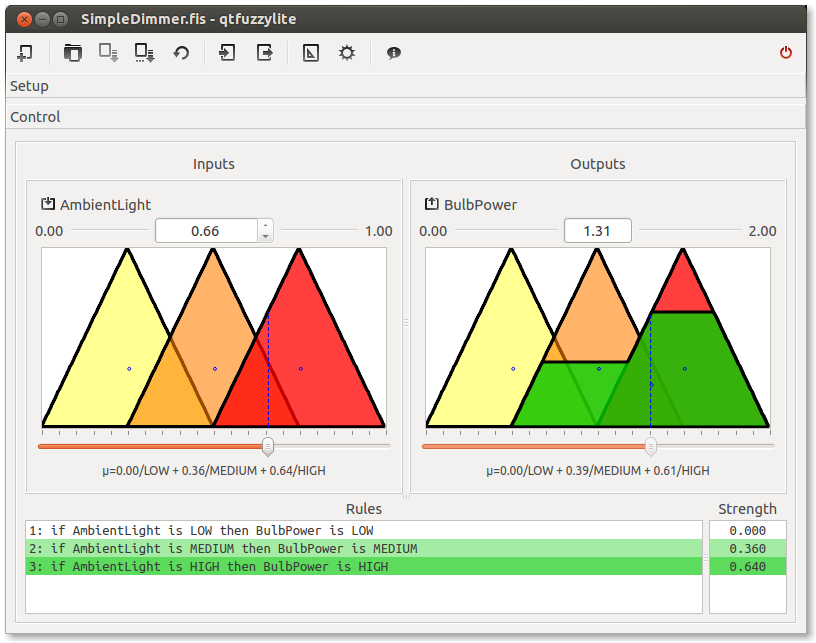
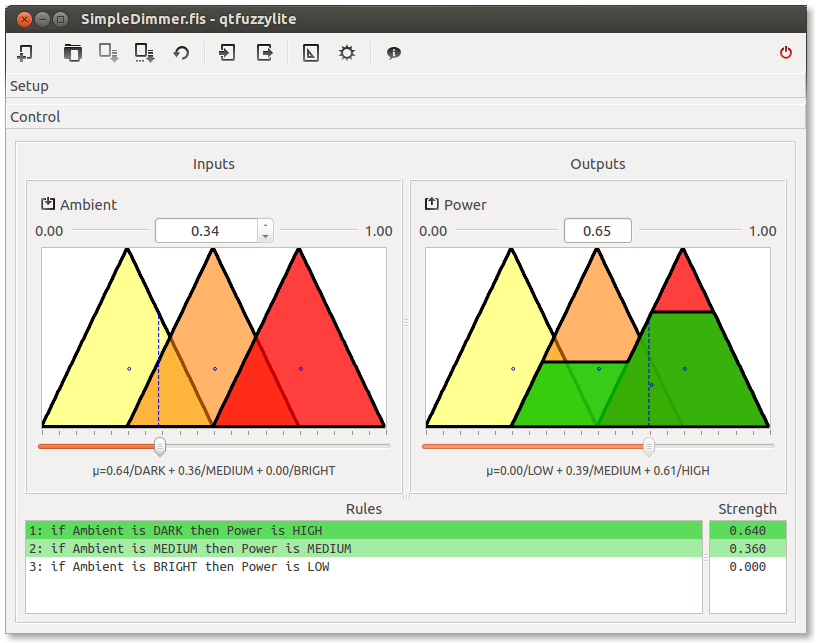
qt: fixed simpleDimmer example. Fixed figures

diff --git a/qtfuzzylite/src/Window.cpp b/qtfuzzylite/src/Window.cpp
@@ -658,9 +658,8 @@ namespace fl {
             Engine* engine = Model::Default()->engine();
             for (int i = 0; i < ui->lvw_inputs->count(); ++i) {
                 if (ui->lvw_inputs->item(i)->isSelected()) {
-                    message << "<" << engine->getInputVariable(i)->getName() << ">: "
-                            << engine->getInputVariable(i)->toString();
-                    if (i < ui->lvw_inputs->selectedItems().size() - 1) message << "\n\n";
+                    message << "- " << engine->getInputVariable(i)->toString();
+                    if (i + 1 < ui->lvw_inputs->selectedItems().size()) message << "\n\n";
                 }
             }
 
@@ -695,9 +694,8 @@ namespace fl {
                 message << "Do you want to edit the following input variables?\n\n";
                 for (int i = 0; i < ui->lvw_inputs->count(); ++i) {
                     if (ui->lvw_inputs->item(i)->isSelected()) {
-                        message << "<" << engine->getInputVariable(i)->getName() << ">: "
-                                << engine->getInputVariable(i)->toString();
-                        if (i < ui->lvw_inputs->selectedItems().size() - 1) message << "\n\n";
+                        message << "- " << engine->getInputVariable(i)->toString();
+                        if (i + 1 < ui->lvw_inputs->selectedItems().size()) message << "\n\n";
                     }
                 }
                 QMessageBox::StandardButton clicked = QMessageBox::information(this,
@@ -766,9 +764,8 @@ namespace fl {
             Engine* engine = Model::Default()->engine();
             for (int i = 0; i < ui->lvw_outputs->count(); ++i) {
                 if (ui->lvw_outputs->item(i)->isSelected()) {
-                    message << "<" << engine->getOutputVariable(i)->getName() << ">: "
-                            << engine->getOutputVariable(i)->toString();
-                    if (i < ui->lvw_outputs->selectedItems().size() - 1) message << "\n\n";
+                    message << "- " << engine->getOutputVariable(i)->toString();
+                    if (i+1 < ui->lvw_outputs->selectedItems().size()) message << "\n\n";
                 }
             }
 
@@ -801,9 +798,8 @@ namespace fl {
                 message << "Do you want to edit the following output variables?\n\n";
                 for (int i = 0; i < ui->lvw_outputs->count(); ++i) {
                     if (ui->lvw_outputs->item(i)->isSelected()) {
-                        message << "<" << engine->getOutputVariable(i)->getName() << ">: "
-                                << engine->getOutputVariable(i)->toString();
-                        if (i < ui->lvw_outputs->selectedItems().size() - 1) message << "\n\n";
+                        message << "- " << engine->getOutputVariable(i)->toString();
+                        if (i+1 < ui->lvw_outputs->selectedItems().size()) message << "\n\n";
                     }
                 }
                 QMessageBox::StandardButton clicked = QMessageBox::information(this,
@@ -1141,7 +1137,7 @@ namespace fl {
                 QString name = QFileInfo(_currentFile).fileName();
                 if (name.isEmpty()) name = "untitled";
                 QMessageBox::StandardButton clicked =
-                        QMessageBox::critical(this, "New engine",
+                        QMessageBox::warning(this, "New engine",
                         "Any unsaved changes to "
                         "\"" + name + "\""
                         " will be lost.<br><br>"
@@ -1701,12 +1697,11 @@ namespace fl {
             return x.toHtmlEscaped();
 #endif
         }
-        
 
         void Window::main(int argc, char** argv) {
             QPixmap pixmap(":/qtfuzzylite.png");
             QSplashScreen splash(pixmap);
-			splash.setWindowFlags(splash.windowFlags() |  Qt::WindowStaysOnTopHint);
+            splash.setWindowFlags(splash.windowFlags() | Qt::WindowStaysOnTopHint);
             splash.setEnabled(false);
             splash.show();
 
@@ -1717,12 +1712,12 @@ namespace fl {
             sleep(1);
 #elif defined FL_WINDOWS
             Sleep(1000);
-			FL_LOG("Slept 1");
+            FL_LOG("Slept 1");
 #endif
             w->show();
             splash.finish(w);
             w->onMenuAbout();
-            
+
             //            w->showMinimized();
             //            splash.finish(w);
             //            w->onMenuAbout();

diff --git a/examples/cpp/mamdani/SimpleDimmer.cpp b/examples/cpp/mamdani/SimpleDimmer.cpp
@@ -11,26 +11,26 @@ engine->addHedge(new fl::Somewhat);
 engine->addHedge(new fl::Very);
 
 fl::InputVariable* inputVariable1 = new fl::InputVariable;
-inputVariable1->setName("AmbientLight");
+inputVariable1->setName("Ambient");
 inputVariable1->setRange(0.000, 1.000);
 
-inputVariable1->addTerm(new fl::Triangle("LOW", 0.000, 0.250, 0.500));
+inputVariable1->addTerm(new fl::Triangle("DARK", 0.000, 0.250, 0.500));
 inputVariable1->addTerm(new fl::Triangle("MEDIUM", 0.250, 0.500, 0.750));
-inputVariable1->addTerm(new fl::Triangle("HIGH", 0.500, 0.750, 1.000));
+inputVariable1->addTerm(new fl::Triangle("BRIGHT", 0.500, 0.750, 1.000));
 engine->addInputVariable(inputVariable1);
 
 fl::OutputVariable* outputVariable1 = new fl::OutputVariable;
-outputVariable1->setName("BulbPower");
-outputVariable1->setRange(0.000, 2.000);
+outputVariable1->setName("Power");
+outputVariable1->setRange(0.000, 1.000);
 outputVariable1->setLockOutputRange(false);
 outputVariable1->setDefaultValue(fl::nan);
 outputVariable1->setLockValidOutput(false);
-outputVariable1->setDefuzzifier(new fl::Centroid(500));
+outputVariable1->setDefuzzifier(new fl::Centroid(200));
 outputVariable1->output()->setAccumulation(new fl::Maximum);
 
-outputVariable1->addTerm(new fl::Triangle("LOW", 0.000, 0.500, 1.000));
-outputVariable1->addTerm(new fl::Triangle("MEDIUM", 0.500, 1.000, 1.500));
-outputVariable1->addTerm(new fl::Triangle("HIGH", 1.000, 1.500, 2.000));
+outputVariable1->addTerm(new fl::Triangle("LOW", 0.000, 0.250, 0.500));
+outputVariable1->addTerm(new fl::Triangle("MEDIUM", 0.250, 0.500, 0.750));
+outputVariable1->addTerm(new fl::Triangle("HIGH", 0.500, 0.750, 1.000));
 engine->addOutputVariable(outputVariable1);
 
 fl::RuleBlock* ruleblock1 = new fl::RuleBlock;
@@ -39,9 +39,10 @@ ruleblock1->setTnorm(new fl::Minimum);
 ruleblock1->setSnorm(new fl::Maximum);
 ruleblock1->setActivation(new fl::Minimum);
 
-ruleblock1->addRule(fl::FuzzyRule::parse("if AmbientLight is LOW then BulbPower is LOW", engine));
-ruleblock1->addRule(fl::FuzzyRule::parse("if AmbientLight is MEDIUM then BulbPower is MEDIUM", engine));
-ruleblock1->addRule(fl::FuzzyRule::parse("if AmbientLight is HIGH then BulbPower is HIGH", engine));
+ruleblock1->addRule(fl::FuzzyRule::parse("if Ambient is DARK then Power is HIGH", engine));
+ruleblock1->addRule(fl::FuzzyRule::parse("if Ambient is MEDIUM then Power is MEDIUM", engine));
+ruleblock1->addRule(fl::FuzzyRule::parse("if Ambient is BRIGHT then Power is LOW", engine));
+engine->addRuleBlock(ruleblock1);
 engine->addRuleBlock(ruleblock1);
 
 

diff --git a/qtfuzzylite/src/Variable.cpp b/qtfuzzylite/src/Variable.cpp
@@ -240,7 +240,7 @@ namespace fl {
                 outputVariable->output()->setAccumulation(accumulation);
                 Defuzzifier* defuzzifier = NULL;
                 if (ui->cbx_defuzzifier->currentIndex() >= 0) {
-                    defuzzifier= Factory::instance()->defuzzifier()->create(
+                    defuzzifier = Factory::instance()->defuzzifier()->create(
                             ui->cbx_defuzzifier->currentText().toStdString(),
                             ui->sbx_accuracy->value());
                 }
@@ -298,9 +298,9 @@ namespace fl {
 
             for (int i = 0; i < ui->lvw_terms->count(); ++i) {
                 if (ui->lvw_terms->item(i)->isSelected()) {
-                    message << "<" << variable->getTerm(i)->getName() << ">: "
+                    message << "- " << variable->getTerm(i)->getName() << ": "
                             << variable->getTerm(i)->toString();
-                    if (i < ui->lvw_terms->selectedItems().size() - 1) message << "\n\n";
+                    if (i + 1 < ui->lvw_terms->selectedItems().size()) message << "\n\n";
                 }
             }
 
@@ -324,9 +324,9 @@ namespace fl {
                 message << "Do you want to edit the following terms?\n\n";
                 for (int i = 0; i < ui->lvw_terms->count(); ++i) {
                     if (ui->lvw_terms->item(i)->isSelected()) {
-                        message << "<" << variable->getTerm(i)->getName() << ">: "
+                        message << "- " << variable->getTerm(i)->getName() << ": "
                                 << variable->getTerm(i)->toString();
-                        if (i < ui->lvw_terms->selectedItems().size() - 1) message << "\n\n";
+                        if (i + 1 < ui->lvw_terms->selectedItems().size()) message << "\n\n";
                     }
                 }
                 QMessageBox::StandardButton clicked = QMessageBox::information(this,

diff --git a/fuzzylite/src/main.cpp b/fuzzylite/src/main.cpp
@@ -424,8 +424,8 @@ int main(int argc, char** argv) {
 #endif
     
     try {
-//        exportAllExamples("fis", "fcl");
-//        return 0;
+        exportAllExamples("fis", "fcl");
+        return 0;
         examples();
     } catch (fl::Exception& e) {
         FL_LOG(e.what());
